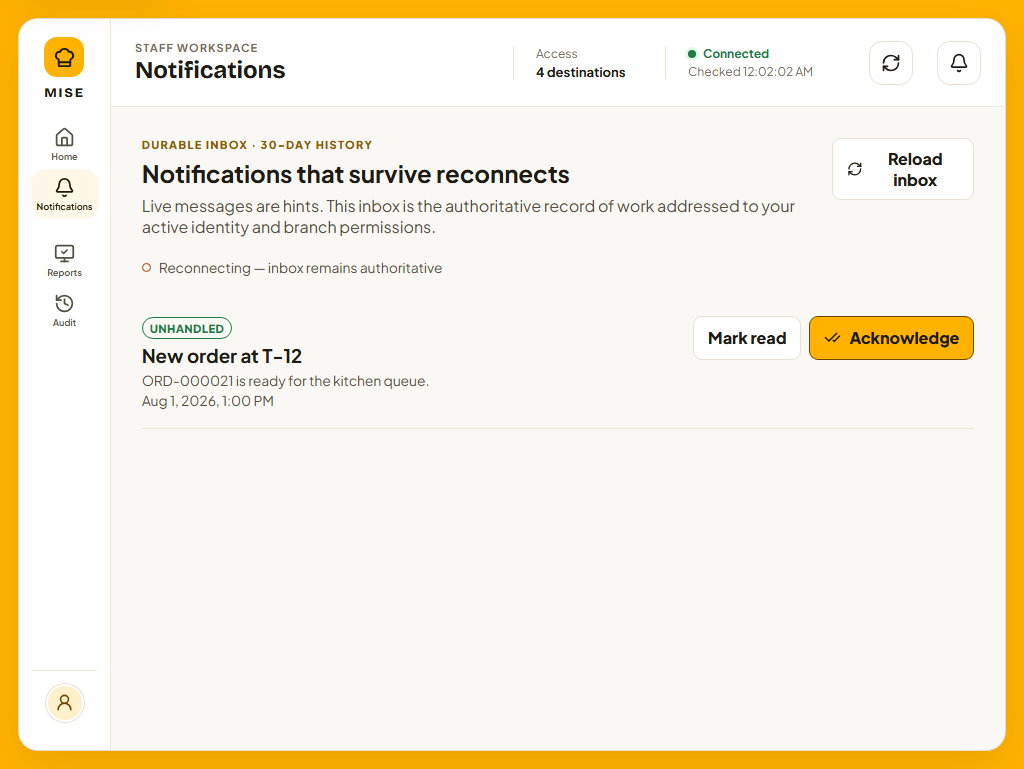
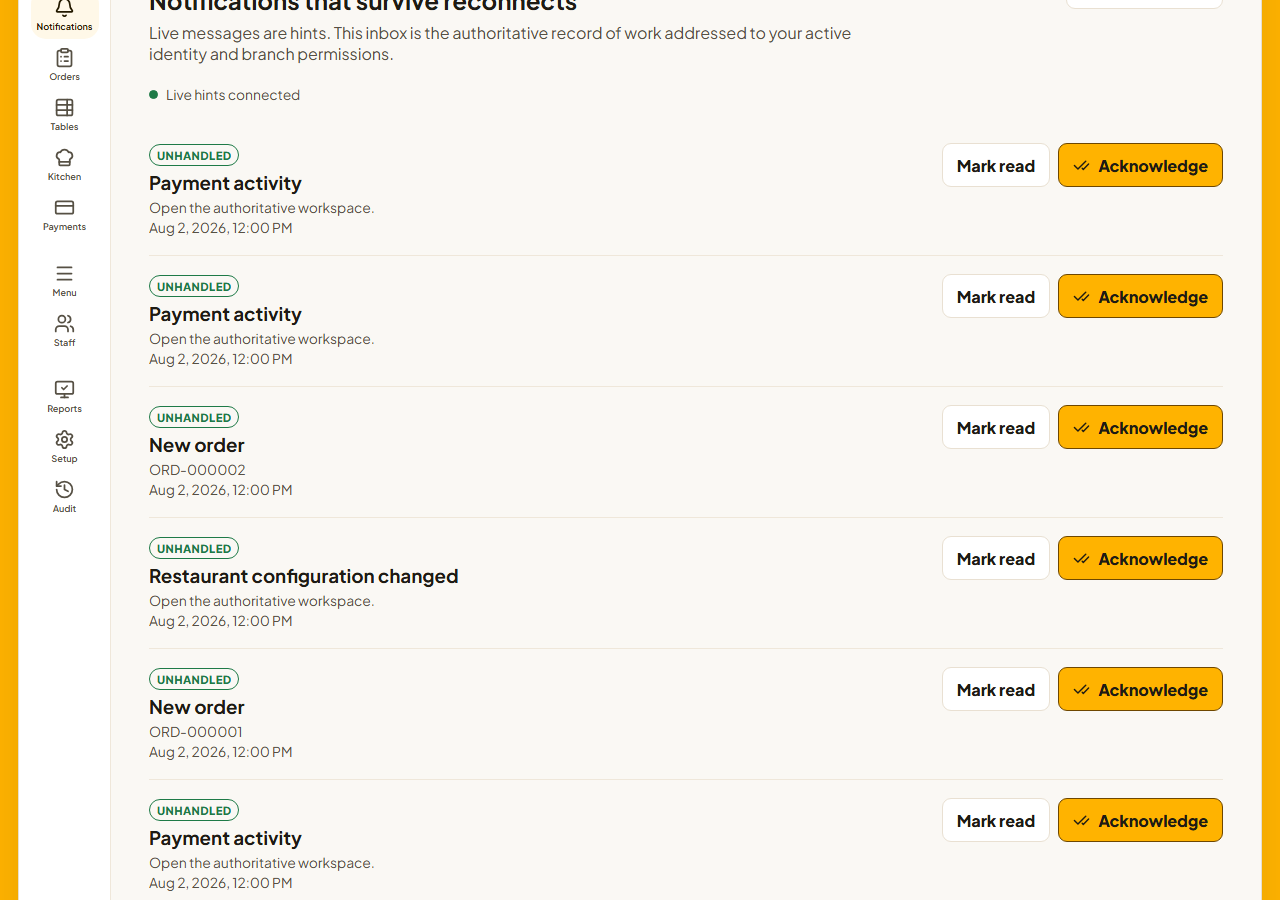
fix: seed demo data and normalize gallery

diff --git a/scripts/seed-demo.ts b/scripts/seed-demo.ts
@@ -38,7 +38,27 @@ const localGuestAccessSecret =
   "rms-demo-local-guest-access-secret-not-for-production";
 const executeFile = promisify(execFile);
 
-function metadata(now = new Date()) {
+function algerianServiceNoon(): Date {
+  const formattedParts = new Intl.DateTimeFormat("en-CA", {
+    timeZone: "Africa/Algiers",
+    year: "numeric",
+    month: "2-digit",
+    day: "2-digit",
+  }).formatToParts();
+  const year = formattedParts.find((part) => part.type === "year")?.value;
+  const month = formattedParts.find((part) => part.type === "month")?.value;
+  const day = formattedParts.find((part) => part.type === "day")?.value;
+  if (!year || !month || !day) {
+    throw new Error(
+      "Could not resolve the Algerian business date for the demo seed.",
+    );
+  }
+  return new Date(`${year}-${month}-${day}T12:00:00.000+01:00`);
+}
+
+const demoNow = algerianServiceNoon();
+
+function metadata(now = demoNow) {
   const correlationId = randomUUID();
   return { correlationId, causationId: correlationId, now };
 }
@@ -79,6 +99,12 @@ async function main(): Promise<void> {
     "GUEST_ACCESS_SECRET",
     localGuestAccessSecret,
   );
+  const customerWebOrigin = configured(
+    "CUSTOMER_WEB_ORIGIN",
+    "http://127.0.0.1:5174",
+  );
+  const customerImageUrl = (filename: string): string =>
+    new URL(`/images/${filename}`, customerWebOrigin).toString();
   await applyMigrations(connectionString);
   const databasePool = createDatabasePool({
     connectionString,
@@ -127,8 +153,7 @@ async function main(): Promise<void> {
       restaurantConfiguration,
       audit,
       guestAccessSecret,
-      customerWebOrigin:
-        process.env.CUSTOMER_WEB_ORIGIN ?? "http://127.0.0.1:5174",
+      customerWebOrigin,
     });
     const orders = new OrderSubmissionService({
       databasePool,
@@ -283,7 +308,7 @@ async function main(): Promise<void> {
         name: "Couscous royale",
         description:
           "Steamed semolina with lamb, merguez, and seasonal vegetables.",
-        imageUrl: "/images/couscous-royale.webp",
+        imageUrl: customerImageUrl("couscous-royale.webp"),
         basePrice: { amount: "1850.00", currency: "DZD" },
         displayOrder: 1,
       },
@@ -296,7 +321,7 @@ async function main(): Promise<void> {
         categoryId: mains.id,
         name: "Rechta au poulet",
         description: "Hand-cut noodles with chicken, turnips, and chickpeas.",
-        imageUrl: "/images/rechta.webp",
+        imageUrl: customerImageUrl("rechta.webp"),
         basePrice: { amount: "2400.00", currency: "DZD" },
         displayOrder: 2,
       },
@@ -437,6 +462,7 @@ async function main(): Promise<void> {
       handlers: [notificationService, reportingService],
       leaseMilliseconds: 30_000,
       maximumAttempts: 5,
+      now: () => demoNow,
     });
     let outboxResult = await outbox.processNext();
     while (outboxResult === "processed") {

diff --git a/apps/web/staff/src/App.tsx b/apps/web/staff/src/App.tsx
@@ -1,8 +1,8 @@
 import {
   Bell,
+  BriefcaseBusiness,
   ChefHat,
   ClipboardList,
-  CircleCheckBig,
   CreditCard,
   History,
   House,
@@ -11,11 +11,11 @@ import {
   PackageOpen,
   RefreshCw,
   Settings,
-  ShieldCheck,
-  SlidersHorizontal,
+  KeyRound,
   TableProperties,
   Users,
   UserRound,
+  Wrench,
 } from "lucide-react";
 import type { LucideProps } from "lucide-react";
 import {
@@ -692,8 +692,8 @@ function HomeWorkspace({
           </div>
           <ul className="check-list">
             <li>
-              <span className="check-icon check-icon--ready" aria-hidden="true">
-                <CircleCheckBig size={19} strokeWidth={2.25} />
+              <span className="access-icon" aria-hidden="true">
+                <BriefcaseBusiness size={19} strokeWidth={2.25} />
               </span>
               <div>
                 <strong>{destinationCount} available workspaces</strong>
@@ -702,8 +702,8 @@ function HomeWorkspace({
               <span className="state-label state-label--ready">Ready</span>
             </li>
             <li>
-              <span className="check-icon check-icon--ready" aria-hidden="true">
-                <ShieldCheck size={19} strokeWidth={2.25} />
+              <span className="access-icon" aria-hidden="true">
+                <KeyRound size={19} strokeWidth={2.25} />
               </span>
               <div>
                 <strong>
@@ -714,8 +714,8 @@ function HomeWorkspace({
               <span className="state-label state-label--ready">Effective</span>
             </li>
             <li>
-              <span className="check-icon check-icon--ready" aria-hidden="true">
-                <SlidersHorizontal size={19} strokeWidth={2.25} />
+              <span className="access-icon" aria-hidden="true">
+                <Wrench size={19} strokeWidth={2.25} />
               </span>
               <div>
                 <strong>

diff --git a/apps/web/staff/src/styles.css b/apps/web/staff/src/styles.css
@@ -541,22 +541,23 @@ button:disabled {
   line-height: 1.4;
 }
 
-.check-icon {
+.access-icon {
   display: grid;
   width: 36px;
   height: 36px;
   place-items: center;
-  border: 1px solid color-mix(in srgb, currentColor 18%, transparent);
-  border-radius: 12px;
+  border: 1px solid var(--brand-200);
+  border-radius: 10px;
+  color: var(--brand-700);
+  background: var(--brand-100);
   box-shadow: inset 0 1px 0 rgba(255, 255, 255, 0.74);
 }
 
-.check-icon svg {
+.access-icon svg {
   stroke-linecap: round;
   stroke-linejoin: round;
 }
 
-.check-icon--ready,
 .state-label--ready {
   background: var(--success-soft);
   color: var(--success);

diff --git a/README.md b/README.md
@@ -17,41 +17,43 @@
 
 ## Product tour
 
-The gallery covers the actual customer, staff, and administration applications,
-using deterministic browser fixtures with synthetic Algerian restaurant data. These are representative
+The gallery uses synthetic Algerian restaurant data. Customer and data-bearing
+staff captures below are live sessions against the seeded Dar Nedjma demo
+database; the capability-boundary workspace, administration, and narrow
+edge-state captures remain deterministic browser fixtures. They are representative
 operational states, not mockup artwork or a customer environment.
 
 ### Guest ordering
 
-| Current table menu                                                         | Order tracking on mobile                                                                              |
-| -------------------------------------------------------------------------- | ----------------------------------------------------------------------------------------------------- |
-| ![Customer menu for table T-12](docs/assets/screenshots/customer-menu.png) | ![Customer order status on a mobile screen](docs/assets/screenshots/customer-order-status-mobile.png) |
+| Current table menu                                                                           | Order tracking on mobile                                                                              |
+| -------------------------------------------------------------------------------------------- | ----------------------------------------------------------------------------------------------------- |
+| ![Seeded Dar Nedjma customer menu for table T-12](docs/assets/screenshots/customer-menu.png) | ![Customer order status on a mobile screen](docs/assets/screenshots/customer-order-status-mobile.png) |
 
 ### Staff operations
 
-| Current branch dashboard                                                                                      |
-| ------------------------------------------------------------------------------------------------------------- |
-| ![Current branch dashboard with orders, tables, and daily sales](docs/assets/screenshots/staff-dashboard.png) |
+| Current branch dashboard                                                                                     |
+| ------------------------------------------------------------------------------------------------------------ |
+| ![Seeded branch dashboard with orders, tables, and daily sales](docs/assets/screenshots/staff-dashboard.png) |
 
-| Staff workspace and access                                                                                                        |
-| --------------------------------------------------------------------------------------------------------------------------------- |
-| ![Staff workspace with explicit availability, permission, and service-control icons](docs/assets/screenshots/staff-workspace.png) |
+| Staff workspace and access                                                                                                            |
+| ------------------------------------------------------------------------------------------------------------------------------------- |
+| ![Seeded staff workspace with distinct workspace, permission, and service-control icons](docs/assets/screenshots/staff-workspace.png) |
 
-| Orders                                                                                    | Kitchen                                                                                      |
-| ----------------------------------------------------------------------------------------- | -------------------------------------------------------------------------------------------- |
-| ![Staff order queue with filtered active order](docs/assets/screenshots/staff-orders.png) | ![Kitchen preparation queue with a grouped order](docs/assets/screenshots/staff-kitchen.png) |
+| Orders                                                                                              | Kitchen                                                                                             |
+| --------------------------------------------------------------------------------------------------- | --------------------------------------------------------------------------------------------------- |
+| ![Seeded staff order queue with payment and refund state](docs/assets/screenshots/staff-orders.png) | ![Seeded kitchen preparation queue with a grouped order](docs/assets/screenshots/staff-kitchen.png) |
 
-| Menu                                                                         | Tables                                                                     |
-| ---------------------------------------------------------------------------- | -------------------------------------------------------------------------- |
-| ![Staff menu view with availability](docs/assets/screenshots/staff-menu.png) | ![Staff table availability view](docs/assets/screenshots/staff-tables.png) |
+| Menu                                                                                     | Tables                                                                            |
+| ---------------------------------------------------------------------------------------- | --------------------------------------------------------------------------------- |
+| ![Seeded staff menu with three available dishes](docs/assets/screenshots/staff-menu.png) | ![Seeded staff table availability view](docs/assets/screenshots/staff-tables.png) |
 
-| Payments and refunds                                                                                     | Notifications                                                                                |
-| -------------------------------------------------------------------------------------------------------- | -------------------------------------------------------------------------------------------- |
-| ![Staff payment ledger and refund on a mobile screen](docs/assets/screenshots/staff-payments-mobile.png) | ![Staff notification inbox at tablet width](docs/assets/screenshots/staff-notifications.png) |
+| Payments and refunds                                                                                     | Notifications                                                                       |
+| -------------------------------------------------------------------------------------------------------- | ----------------------------------------------------------------------------------- |
+| ![Staff payment ledger and refund on a mobile screen](docs/assets/screenshots/staff-payments-mobile.png) | ![Seeded staff notification inbox](docs/assets/screenshots/staff-notifications.png) |
 
-| Sales reports                                                                                                               | Audit history                                                                                         |
-| --------------------------------------------------------------------------------------------------------------------------- | ----------------------------------------------------------------------------------------------------- |
-| ![Staff sales report with accessible scrollable evidence table on mobile](docs/assets/screenshots/staff-reports-mobile.png) | ![Staff append-only audit history on a mobile screen](docs/assets/screenshots/staff-audit-mobile.png) |
+| Sales reports                                                                                                                      | Audit history                                                                                         |
+| ---------------------------------------------------------------------------------------------------------------------------------- | ----------------------------------------------------------------------------------------------------- |
+| ![Seeded staff sales report with accessible scrollable evidence table on mobile](docs/assets/screenshots/staff-reports-mobile.png) | ![Staff append-only audit history on a mobile screen](docs/assets/screenshots/staff-audit-mobile.png) |
 
 ### Administration
 
